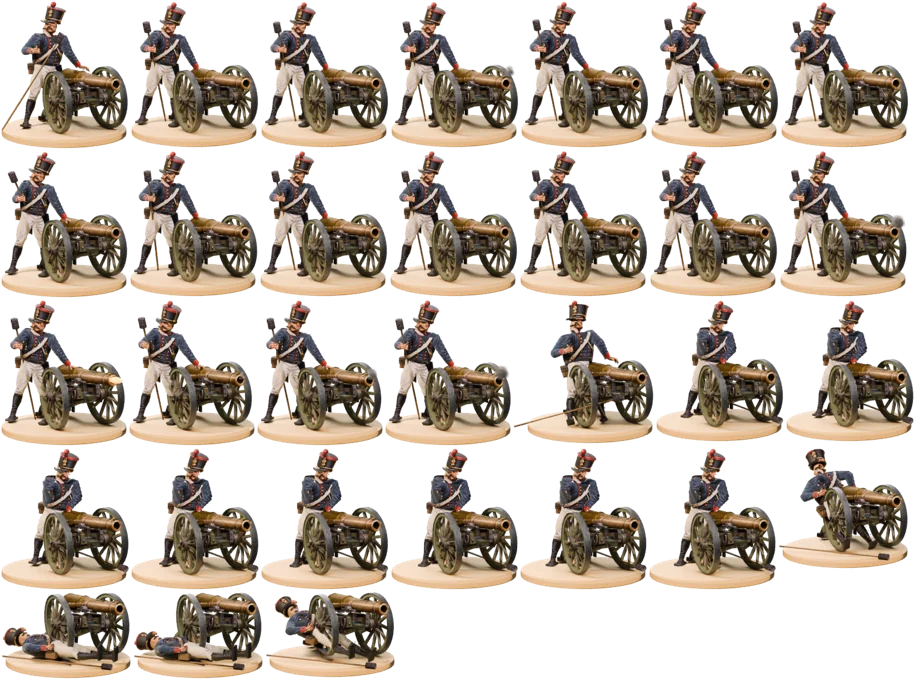
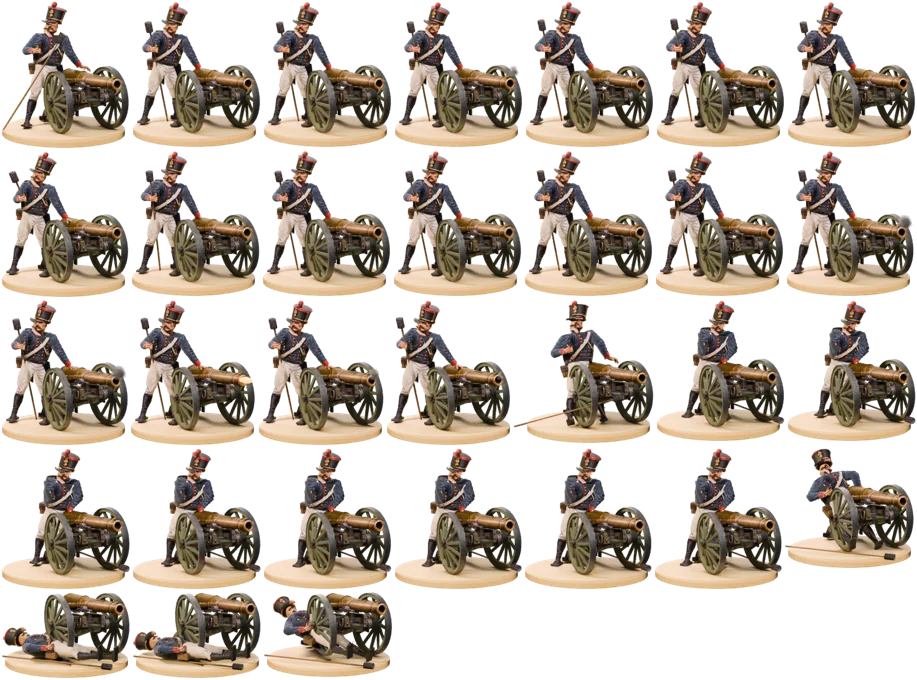
Codex task unit-anim-3d-siege: work left uncommitted in the sandbox

Changed region(s): [[0.0, 0.0, 1.0, 1.0], [0.8874, 0.5559, 1.0, 0.6485], [0.0612, 0.9882, 0.1224, 1.0]]

diff --git a/tools/art/anim3d/siege/paint.py b/tools/art/anim3d/siege/paint.py
@@ -19,6 +19,7 @@ base=bpy.data.images.load(str(R/'assets/field-cannon/projection-base.png'),check
 coat=bpy.data.images.load(str(R/'assets/field-cannon/projection-coat.png'),check_existing=True)
 trousers=bpy.data.images.load(str(R/'assets/field-cannon/projection-trousers.png'),check_existing=True)
 gun_meshes=set(bpy.data.objects['Gun travel and recoil'].children_recursive)
+filled_wheel_parts=('Tapered oak spoke',)
 # Alpha-bounds registration of the original 1254px master to the 256px token.
 registration={'source_bbox':[81,7,1172,1247],'reference_bbox':[26,12,230,244]}
 toward=cam.matrix_world.to_quaternion() @ Vector((0,0,1));records=[]
@@ -54,6 +55,10 @@ for obj in list(sc.objects):
  obj.data.uv_layers.active_index=0;obj.data.uv_layers[0].active_render=True
  for slot in obj.material_slots:
   if not slot.material or 'bore soot' in slot.material.name:continue
+  # The painted wheel's spokes are not exactly radial in this camera. Projecting
+  # them onto different radial faces creates doubled spokes and figure ghosts.
+  # Keep their genuine wood grain, ambient cavity shading and beveled highlights.
+  if obj.name.startswith(filled_wheel_parts):continue
   mat=slot.material.copy();slot.material=mat;n=mat.node_tree.nodes;links=mat.node_tree.links;p=n.get('Principled BSDF')
   if not p:continue
   old=p.inputs['Base Color'].links[0].from_socket if p.inputs['Base Color'].is_linked else None
@@ -64,7 +69,7 @@ for obj in list(sc.objects):
   colour=tex.outputs['Color']
   if obj.name=='Stationary cream base':
    correction=n.new('ShaderNodeMixRGB');correction.name='Lit cream pigment calibration';correction.blend_type='MULTIPLY'
-   correction.inputs[0].default_value=1;correction.inputs[2].default_value=(1.04,1.0,.74,1)
+   correction.inputs[0].default_value=1;correction.inputs[2].default_value=(.92,1.025,.76,1)
    links.new(colour,correction.inputs[1]);colour=correction.outputs[0]
   attr=n.new('ShaderNodeVertexColor');attr.layer_name=mask.name
   mult=n.new('ShaderNodeMath');mult.operation='MULTIPLY';links.new(attr.outputs['Color'],mult.inputs[0]);links.new(tex.outputs['Alpha'],mult.inputs[1])
@@ -86,7 +91,7 @@ for obj in list(sc.objects):
   links.new(camera_weight.outputs[0],amount.inputs[0]);links.new(amount.outputs[0],blend.inputs[0])
   links.new(p.outputs[0],blend.inputs[1]);links.new(pigment.outputs[0],blend.inputs[2])
   links.new(blend.outputs[0],n.get('Material Output').inputs['Surface'])
- records.append({'object':obj.name,'visible_vertices':sum(w>0 for w in weights),'vertices':len(weights)})
+ records.append({'object':obj.name,'visible_vertices':sum(w>0 for w in weights),'vertices':len(weights),'shading':'scanned PBR fill; source spoke edges do not register' if obj.name.startswith(filled_wheel_parts) else 'frozen camera projection with filled hidden surfaces'})
 sc['painted_projection']='One frozen camera UV projection; native geometry and filled occluded/back surfaces. Registration residuals are in registration.json.'
 bpy.ops.file.pack_all();bpy.ops.wm.save_as_mainfile(filepath=str(M/'field-cannon.blend'))
 (M/'projection.json').write_text(json.dumps({'registration':registration,'source_sha256':hashlib.sha256(source.read_bytes()).hexdigest(),'objects':records,'finished_surfaces':surface_records,'mapping':'shared frozen camera, no local texture warps','note':'Camera/geometry residuals remain; visual comparison determines acceptance.'},indent=2))

diff --git a/tools/art/anim3d/siege/finish.py b/tools/art/anim3d/siege/finish.py
@@ -70,6 +70,23 @@ for obj in bpy.data.objects:
     roughness.inputs['To Min'].default_value = .48; roughness.inputs['To Max'].default_value = .82
     links.new(noise.outputs['Fac'], roughness.inputs[0]); links.new(roughness.outputs[0], p.inputs['Roughness'])
 
+# Source spoke edges cannot be transferred onto different radial geometry. Use
+# the existing scanned oak, cool its sunlit ochre cast, and keep actual bevel/AO.
+spoke_wood = bpy.data.materials['Siege olive painted oak'].copy()
+spoke_wood.name = 'Siege weathered spoke oak'
+nodes, links = spoke_wood.node_tree.nodes, spoke_wood.node_tree.links
+p = nodes.get('Principled BSDF')
+old = p.inputs['Base Color'].links[0].from_socket
+cool = nodes.new('ShaderNodeMixRGB'); cool.blend_type = 'MULTIPLY'
+cool.inputs[0].default_value = 1; cool.inputs[2].default_value = (.77, .80, .92, 1)
+links.new(old, cool.inputs[1]); links.new(cool.outputs[0], p.inputs['Base Color'])
+for obj in bpy.data.objects:
+    if obj.name.startswith('Tapered oak spoke'):
+        obj.data.materials[0] = spoke_wood
+    elif obj.name.startswith('Turned wheel hub'):
+        # The reference hub is almost entirely enclosed by a broad iron sleeve.
+        obj.data.materials[0] = bpy.data.objects['Flat wrought iron tyre'].data.materials[0]
+
 # Mouldings are worn bronze, not bright gold jewellery; buttons keep their glints.
 aged = bpy.data.objects['Hollow bronze barrel'].data.materials[0]
 for obj in bpy.data.objects:

diff --git a/tools/art/anim3d/siege/scene.py b/tools/art/anim3d/siege/scene.py
@@ -100,14 +100,14 @@ for sy in [-1,1]:
  for off in [-.052,.052]:ring('Tyre polished edge',(ax,y+off,wz),radius-.003,.0025,brightiron,p=wheel)
  for i in range(12):
   a=2*pi*i/12;end=Vector((ax+(radius-.054)*cos(a),y,wz+(radius-.054)*sin(a)))
-  start=Vector((ax+.072*cos(a),y+sy*.065,wz+.072*sin(a)))
+  start=Vector((ax+.072*cos(a),y+sy*.105,wz+.072*sin(a)))
   o=cube('Tapered oak spoke',(start+end)*.5,(.041,.047,(end-start).length),wood,wheel);o.rotation_euler=(end-start).to_track_quat('Z','Y').to_euler()
   for vertex in o.data.vertices:
    vertex.co.x*=1-.22*vertex.co.z/((end-start).length*.5)
   ball('Felloe nail',tuple(end+Vector((0,sy*.035,0))),(.009,.005,.009),brightiron,wheel)
- rod('Turned wheel hub',(ax,y-.09,wz),(ax,y+.09,wz),.081,rawwood,wheel,r2=.069)
- for off in [-.073,.073]:ring('Hub iron binding',(ax,y+off,wz),.077,.010,iron,p=wheel)
- rod('Axle end',(ax,y+sy*.09,wz),(ax,y+sy*.13,wz),.042,brightiron,wheel)
+ rod('Turned wheel hub',(ax,y-.13,wz),(ax,y+.13,wz),.088,rawwood,wheel,r2=.069)
+ for off in [-.115,.115]:ring('Hub iron binding',(ax,y+off,wz),.077,.010,iron,p=wheel)
+ rod('Axle end',(ax,y+sy*.13,wz),(ax,y+sy*.18,wz),.042,brightiron,wheel)
 # Cheeks narrow at rear, tall around trunnions. Warm cut edges and iron fastenings.
 for sy in [-1,1]:
  y=sy*.22

diff --git a/tools/art/anim3d/siege/audit.py b/tools/art/anim3d/siege/audit.py
@@ -1,9 +1,17 @@
 """Audit saved 3D geometry, stationary base, rolling ratios and settled death."""
-import bpy,os,json,math
+import bpy,os,json,math,runpy
 from pathlib import Path
 from mathutils import Vector
 from bpy_extras.object_utils import world_to_camera_view
 R=Path(os.environ['ANIM_ROOT']);M=R/'masters/field-cannon';records={}
+# Reopening the saved unprojected surface must not add another sampling level.
+# This matters when iterating pigment from this checkpoint instead of rebuilding.
+bpy.ops.wm.open_mainfile(filepath=str(M/'field-cannon-surface.blend'))
+before={o.name:len(o.data.vertices) for o in bpy.context.scene.objects if o.type=='MESH'}
+runpy.run_path(str(Path(__file__).with_name('surface.py')))['finish_surfaces']()
+after={o.name:len(o.data.vertices) for o in bpy.context.scene.objects if o.type=='MESH'}
+assert before==after,'Finished-surface replay changed topology'
+records['surface_replay_topology_unchanged']=True
 # Guard the original projection defect: the UVs must land on the finished,
 # posed surfaces, not an unsmoothed cage that changes again during rendering.
 bpy.ops.wm.open_mainfile(filepath=str(M/'field-cannon.blend'))

diff --git a/tools/art/anim3d/siege/surface.py b/tools/art/anim3d/siege/surface.py
@@ -28,10 +28,12 @@ def finish_surfaces():
         # Their whole visible middle therefore inherited zero projection visibility.
         # Linear subdivision adds samples without rounding or moving the surface.
         if (obj.name.startswith(('Tapered oak spoke', 'Iron cheek strap', 'Hollow bronze barrel'))
-                and not obj.data.color_attributes.get('Painting visibility')):
+                and not obj.data.color_attributes.get('Painting visibility')
+                and not obj.get('projection_sampling_finished', False)):
             sampling = obj.modifiers.new('Paint visibility surface samples', 'SUBSURF')
             sampling.subdivision_type = 'SIMPLE'
             sampling.levels = sampling.render_levels = 2
+            obj['projection_sampling_finished'] = True
         applied = []
         for mod in list(obj.modifiers):
             if mod.type == 'ARMATURE' or not mod.show_viewport:

diff --git a/tools/art/anim3d/siege/register.py b/tools/art/anim3d/siege/register.py
@@ -114,6 +114,11 @@ bpy.context.view_layer.update();contact=barrel.matrix_world @ Vector((-.20,-.025
 direction=Vector((.11,-.015,-.03)).normalized();target=r.matrix_world.inverted() @ contact-direction*r.data.bones['hand_l'].length
 limb('upperarm_l','lowerarm_l',target,(.56,-.24,1.14));aim('hand_l',direction)
 r['barrel_contact_local']=[-.20,-.025,.171]
+# Keep the disc horizontal and circular; match its width and centre without
+# changing the top height used for foot/wheel contact.
+base=bpy.data.objects['Stationary cream base']
+base.scale.x=base.scale.y=.985
+base.location+=c.matrix_world.to_quaternion() @ Vector((-.025,0,0))
 wheel_fit=runpy.run_path(str(Path(__file__).with_name('wheels.py')))['fit_wheels']()
 runpy.run_path(str(Path(__file__).with_name('tailoring.py')))['fit_crossbelts']()
 r['neutral_pose']=json.dumps({p.name:[list(row) for row in p.matrix_basis] for p in r.pose.bones})

diff --git a/tools/art/anim3d/PLAYBOOK.md b/tools/art/anim3d/PLAYBOOK.md
@@ -188,7 +188,7 @@ The carriage stays close to wheel-supported height rather than levering the whol
 source PNGs are identical; the second terminal PNG is reused after asserting all transforms match.
 
 Lead's final host GPU pass, from this branch's checkout: run
-`ROUND=7 tools/art/anim3d/units/field-cannon/gpu.sh`. It audits geometry, renders every stage
+`ROUND=8 tools/art/anim3d/units/field-cannon/gpu.sh`. It audits geometry, renders every stage
 (including plain views) at 512 px / 64 samples, writes 256 px gallery copies, packs and validates the
 saved external master, and encodes the decoded atlas as the driver-requested round MP4. The old
 `siege/gpu-final.sh` delegates to this entry point. The equivalent individual stages are:
@@ -446,6 +446,42 @@ CPU evidence is archived under `round7-cpu`; all 40 prior512 GPU frames remain i
 Silhouette IoU is .859952 versus round6 .839677; this is not art acceptance. At256 face/tailoring,
 wheel wear and motion still fall short. At64 identity reads but the result remains distinguishable.
 **No PASS marker; fresh GPU512 rendering and visual acceptance remain outstanding.**
+
+### Round-eight wheel cleanup and stone calibration
+
+The named round-seven GPU driver log, unit transcript and receipt were absent, while the current
+render metadata remained CPU256/12. Opened the comparison, all five strips and round-seven MP4
+contact frames first; a separate CPU512 rest render confirmed that the muddy spokes were not only
+preview resolution. Do not call these verified round-seven GPU renders.
+
+The source's painted spoke edges do not coincide with the full-depth model's radial spokes.
+Projecting those edges produced doubled lines, even after excluding pale trouser pixels. The spokes
+now retain their scanned PBR materials, ambient cavity shading and bevel highlights; the original
+frozen source projection remains on the deeper iron hubs, rims, carriage, barrel and the gunner. Projection
+provenance records this exception per object. Cooler oak, a deeper iron-clad hub and more strongly
+dished spokes improve the visible construction. The existing image-generated navy-wool fill remains
+on hidden/revealed cloth, with actual cloth folds, solid straps, product lights and the one frozen
+automatic histogram grade.
+
+The stone remains a horizontal circular disc, with its diameter reduced 1.5% and centre moved
+2.4 token pixels left. Its top/contact height is unchanged. Reduced red in the projected pigment
+addresses the pink cast. Sampling subdivision now records completion on the mesh object: reopening
+`field-cannon-surface.blend` for another pigment trial must not subdivide it again. The geometry audit
+replays surface finishing and requires unchanged vertex counts before checking all forty poses.
+
+The executable GPU entry point defaults to round eight and keeps the existing direct transcript,
+error trap, GPU512/gallery256 provenance gate, trimmed packing/validation and decoded-atlas MP4.
+Its receipt includes the master SHA and geometry audit, requiring the unchanged-topology replay check.
+Its missing-input preflight reaches the transcript without launching Blender. No PASS marker is
+created by technical checks; the face, tailoring and animation still need visual acceptance.
+
+Round-eight CPU delivery: **182,552 bytes at Q85**, 917 × 680, all forty samples in 31 unique
+rectangles with lossless alpha. Atlas/video validation, six regression tests, geometry/UV/contact and
+surface-replay audits, syntax and GPU failure preflights pass. MP4: H.264/yuv420p, 1600 × 348,
+240 frames/eight seconds. Evidence is archived in `round8-cpu`; prior GPU512 frames remain in
+`round3-gpu`. Silhouette IoU is .858252 versus round-seven .859952, a small regression. The wheel
+is cleaner but flatter than the painted reference; face, tailoring, palm presentation and motion
+still fall short. **No PASS marker. Fresh GPU512 masters and visual acceptance remain outstanding.**
 
 ### Trimmed JSON format, version 2
 
